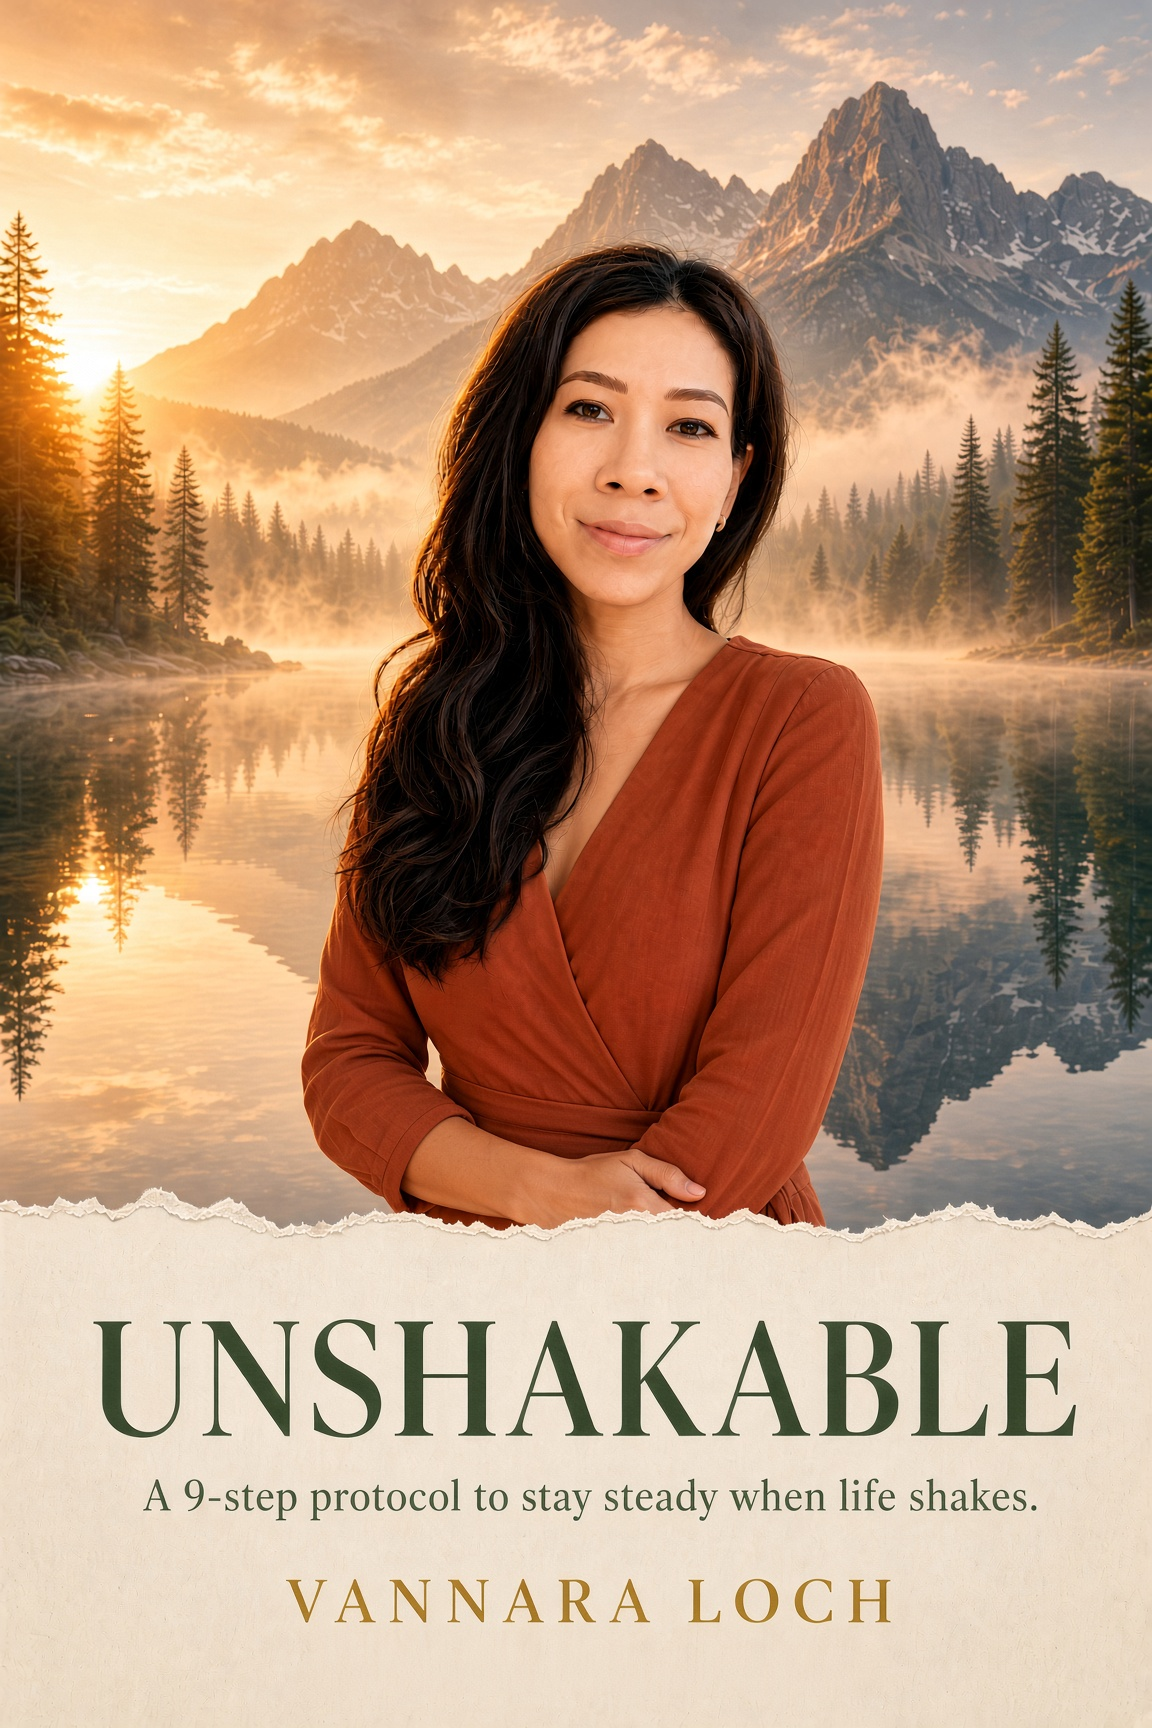
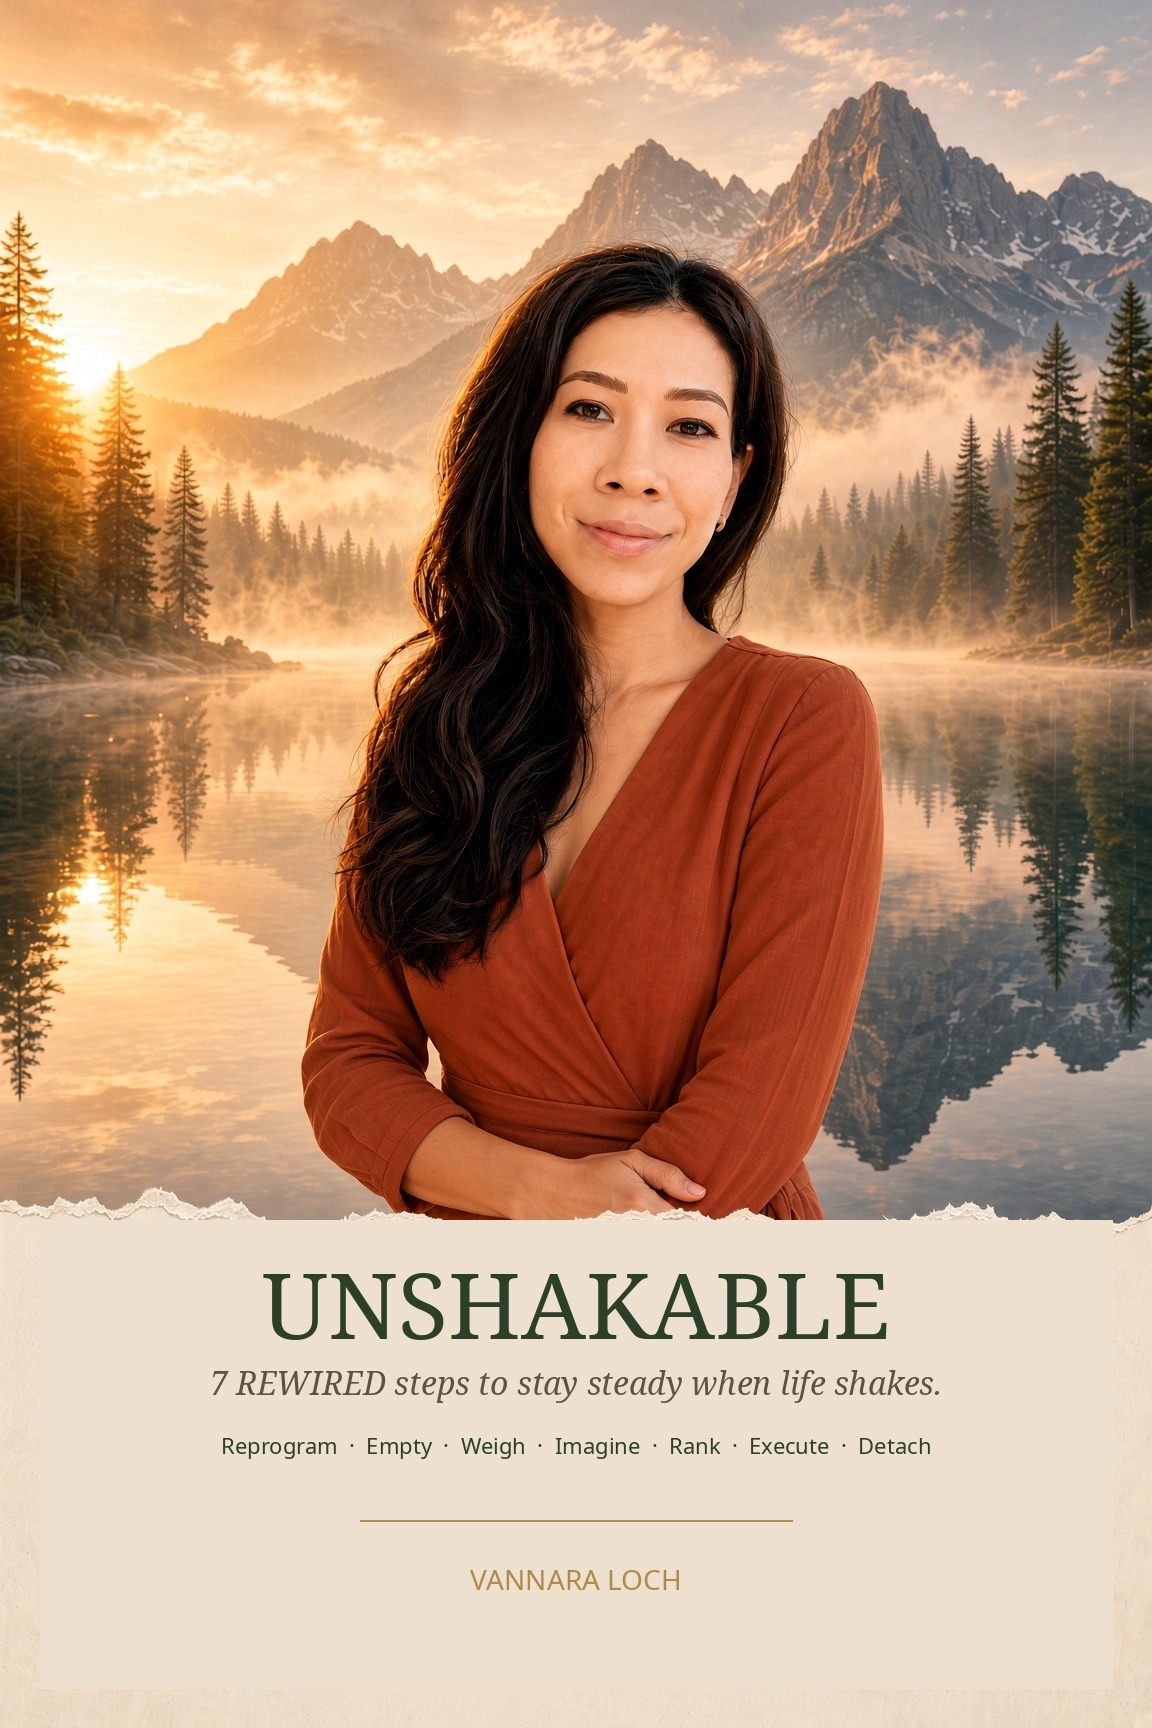
update cover and steps

Changed region(s): [[0.0625, 0.6875, 0.9375, 0.875], [0.25, 0.9062, 0.7812, 0.9375], [0.9375, 0.6875, 0.9688, 0.7188]]

diff --git a/index.html b/index.html
@@ -75,17 +75,15 @@
       <div class="page-inner">
         <p class="kicker">The sequence</p>
         <h2>The Unshakable Mind</h2>
-        <p class="lede">Nine steps. One day. This is the whole sequence, before you use any of it.</p>
+        <p class="lede">Seven steps. One word. One day.</p>
         <ol>
-          <li><strong>00 Prime</strong> — regulate before you plan</li>
-          <li><strong>01 Empty</strong> — clear your head</li>
-          <li><strong>02 Sort</strong> — choose what matters</li>
-          <li><strong>03 Vision</strong> — see your successful day</li>
-          <li><strong>04 Decide</strong> — pre-decide the night before</li>
-          <li><strong>05 Protect</strong> — guard your focus</li>
-          <li><strong>06 Execute</strong> — one thing at a time</li>
-          <li><strong>07 Interrupt</strong> — release what isn't yours</li>
-          <li><strong>08 Close</strong> — reprogram before sleep</li>
+          <li><strong>R — Reprogram:</strong> upgrade your operating system before the world wakes up.</li>
+          <li><strong>E — Empty:</strong> unload everything consuming your time, energy and focus.</li>
+          <li><strong>W — Weigh:</strong> separate the non-negotiable from the negotiable, the focus from the on-the-go.</li>
+          <li><strong>I — Imagine:</strong> picture what success looks like at the end of your day.</li>
+          <li><strong>R — Rank:</strong> rank your top 3 actions that create 80% of the results.</li>
+          <li><strong>E — Execute:</strong> protect your time. Follow through, one thing at a time.</li>
+          <li><strong>D — Detach:</strong> surrender the outcome. Go to bed in peace.</li>
         </ol>
       </div>
     </div>
@@ -93,17 +91,17 @@
     <div class="page">
       <div class="page-inner">
         <p class="kicker">How to enter</p>
-        <h2>You do not do all nine at once.</h2>
+        <h2>You do not do all seven at once.</h2>
         <p class="lede">Notice how you feel. The feeling tells you which step to open.</p>
-        <p>Tense — Prime. Head too full — Empty, then Sort. You don't know what a successful day looks like — Vision, then Decide. Pulled away — Protect, then Execute. Spiraling, or the day still open — Interrupt, then Close.</p>
+        <p>Tense — Reprogram. Head too full — Empty, then Weigh. No clear picture of success — Imagine, then Rank. Pulled away — Execute. Spiraling, or the day still open — Detach.</p>
         <p>One feeling. One step. That is enough for today.</p>
       </div>
     </div>
 
     <div class="page">
       <div class="page-inner diag">
-        <p class="kicker">00 Prime</p>
-        <h2>Regulate before you plan</h2>
+        <p class="kicker">R · Reprogram</p>
+        <h2>Upgrade before the world wakes up</h2>
         <p>Do you wake up and reach for your phone, already stressed before your day begins? What do you normally do?</p>
         <p class="label">What science says:</p>
         <p class="science">When you start the day stressed, your nervous system plans from survival mode, and stress narrows what you can see. Slow breathing activates your calming system and improves heart rate variability, a marker of calm and resilience. You plan from safety, not panic.</p>
@@ -116,8 +114,8 @@
 
     <div class="page">
       <div class="page-inner diag">
-        <p class="kicker">01 Empty</p>
-        <h2>Clear your head</h2>
+        <p class="kicker">E · Empty</p>
+        <h2>Unload what is consuming you</h2>
         <p>Does your head feel so full that nothing else can fit? When you feel overloaded, what do you normally do?</p>
         <p class="label">What science says:</p>
         <p class="science">Your working memory holds only about four things at once (Cowan, 2001). Unfinished tasks keep looping in your mind — the Zeigarnik effect — and that loop drains your energy and focus. Writing down a plan for unfinished tasks stops them from intruding (Masicampo & Baumeister, 2011). When paper holds the list, your brain is free to think.</p>
@@ -130,19 +128,19 @@
 
     <div class="page">
       <div class="page-inner diag">
-        <p class="kicker">02 Sort</p>
-        <h2>Choose what matters</h2>
+        <p class="kicker">W · Weigh</p>
+        <h2>Separate what matters</h2>
         <p>When too many things land on you at once, how do you know what to focus on next? What do you normally do?</p>
         <p class="label">What science says:</p>
-        <p class="science">Research on the urgency effect shows people choose urgent tasks over important ones, even when the important ones pay off more (Zhu et al., 2018). Sorting breaks that bias, so urgency stops choosing for you.</p>
+        <p class="science">Research on the urgency effect shows people choose urgent tasks over important ones, even when the important ones pay off more (Zhu et al., 2018). Weighing breaks that bias, so urgency stops choosing for you.</p>
         <p class="label">The practice:</p>
-        <p>Bring your list from the previous page and split it into non-negotiable and negotiable. Then tag each task as continuous or deadline, and as focus or flexible.</p>
+        <p>Split the list into non-negotiable and negotiable. Then tag each task as continuous or deadline, and as focus or on-the-go.</p>
         <p class="small">Example</p>
         <table>
           <thead><tr><th>Non-negotiable</th><th>Negotiable</th></tr></thead>
           <tbody>
-            <tr><td>Launch page — deadline, focus</td><td>Unread thread — flexible</td></tr>
-            <tr><td>School pickup — continuous</td><td>Groceries — flexible</td></tr>
+            <tr><td>Launch page — deadline, focus</td><td>Unread thread — on-the-go</td></tr>
+            <tr><td>School pickup — continuous</td><td>Groceries — on-the-go</td></tr>
             <tr><td>Sleep — continuous</td><td>Accountant call — can move</td></tr>
           </tbody>
         </table>
@@ -151,8 +149,8 @@
 
     <div class="page">
       <div class="page-inner diag">
-        <p class="kicker">03 Vision</p>
-        <h2>See your successful day</h2>
+        <p class="kicker">I · Imagine</p>
+        <h2>Picture the successful day</h2>
         <p>At the end of the day, how do you know you were successful? How do you know you moved closer to your goal, your dream?</p>
         <p class="label">What science says:</p>
         <p class="science">"I'll do my best" gives your brain no target. Goal-setting research by Locke and Latham, across hundreds of studies, shows that specific, clear goals lead to higher performance than vague ones.</p>
@@ -165,13 +163,13 @@
 
     <div class="page">
       <div class="page-inner diag">
-        <p class="kicker">04 Decide</p>
-        <h2>Pre-decide the night before</h2>
+        <p class="kicker">R · Rank</p>
+        <h2>The three that move the day</h2>
         <p>Are you spending your day reacting to your emotions and to people's complaints? Or are you deciding who you are, what you want, and the action that takes you there?</p>
         <p class="label">What science says:</p>
         <p class="science">When you decide in the moment, your emotions and other people's demands decide for you. Deciding in advance is an implementation intention. A review of 94 studies found it strongly increases follow-through (Gollwitzer & Sheeran, 2006).</p>
         <p class="label">The practice:</p>
-        <p>The night before, fill in your VPI table — Vision, Purpose, Inspired Action — with three actions at most. Tomorrow, you don't decide. You execute.</p>
+        <p>The night before, rank your top 3 actions that create 80% of the results. Fill the VPI table — Vision, Purpose, Inspired Action. Tomorrow, you don't decide. You execute.</p>
         <p class="small">Example</p>
         <p><strong>Vision</strong> — launch page sent; dinner present.</p>
         <p><strong>Purpose</strong> — I build from a steady body.</p>
@@ -188,70 +186,30 @@
 
     <div class="page">
       <div class="page-inner diag">
-        <p class="kicker">05 Protect</p>
-        <h2>Guard your focus</h2>
-        <p>Does your day get eaten by messages, calls, and interruptions? When someone pulls you away, what do you normally do?</p>
+        <p class="kicker">E · Execute</p>
+        <h2>Protect the time. One thing.</h2>
+        <p>Does your day get eaten by messages, calls, and interruptions? Do you jump between five tasks and finish none?</p>
         <p class="label">What science says:</p>
-        <p class="science">It can take around 23 minutes to fully refocus after an interruption (Gloria Mark). Even a phone lying face-down nearby reduces your thinking capacity (Ward et al., 2017). Protected time keeps your full brain power for what matters.</p>
+        <p class="science">It can take around 23 minutes to fully refocus after an interruption (Gloria Mark). Even a phone lying face-down nearby reduces your thinking capacity (Ward et al., 2017). Every time you switch tasks, you lose time and accuracy (Rubinstein, Meyer & Evans, 2001). Part of your attention stays stuck on the last task — attention residue (Sophie Leroy).</p>
         <p class="label">The practice:</p>
-        <p>Block time on your calendar. Put focus tasks in protected blocks and flexible tasks in the gaps. Keep your phone out of the room.</p>
+        <p>Block the time. Put focus tasks in protected blocks and on-the-go tasks in the gaps. Phone out of the room. Then one thing at a time, in a primed state.</p>
         <p class="small">Example</p>
-        <table>
-          <thead><tr><th>Block</th><th>What lives here</th></tr></thead>
-          <tbody>
-            <tr><td>9:00–11:00</td><td>Write the offer. Phone out of the room.</td></tr>
-            <tr><td>11:30</td><td>Send the draft.</td></tr>
-            <tr><td>Gaps</td><td>Thread. Groceries. Accountant, if it fits.</td></tr>
-            <tr><td>Evening</td><td>Dinner present. Close the page.</td></tr>
-          </tbody>
-        </table>
+        <div class="box"><p>From 9 to 11, I write the offer. Phone in another room. Nothing else.</p></div>
       </div>
     </div>
 
     <div class="page">
       <div class="page-inner diag">
-        <p class="kicker">06 Execute</p>
-        <h2>One thing at a time</h2>
-        <p>Do you jump between five tasks and finish none? What do you normally do when you feel scattered?</p>
+        <p class="kicker">D · Detach</p>
+        <h2>Surrender the outcome. Sleep in peace.</h2>
+        <p>Does one worry replay in your head again and again? What is the last thing you think, feel, or watch before you sleep?</p>
         <p class="label">What science says:</p>
-        <p class="science">Every time you switch tasks, you lose time and accuracy (Rubinstein, Meyer & Evans, 2001). Part of your attention also stays stuck on the last task — attention residue (Sophie Leroy). Working on one thing gives you full attention, deeper work, and less exhaustion.</p>
+        <p class="science">Replaying the same worry is strongly linked to stress and anxiety. Putting a feeling into words calms the amygdala (Lieberman et al., 2007). As you relax toward sleep, alpha brain waves increase and your mind becomes more open, so whatever you feed it then goes deeper. Gratitude before sleep is linked to better sleep quality (Wood et al., 2009).</p>
         <p class="label">The practice:</p>
-        <p>One thing at a time, in a primed state. Depth over hurry.</p>
-        <p class="small">Example</p>
-        <div class="box"><p>From 9 to 11, I write the offer. Nothing else.</p></div>
-      </div>
-    </div>
-
-    <div class="page">
-      <div class="page-inner diag">
-        <p class="kicker">07 Interrupt</p>
-        <h2>Release what isn't yours</h2>
-        <p>Does one worry replay in your head again and again? What do you normally do?</p>
-        <p class="label">What science says:</p>
-        <p class="science">Replaying the same worry is strongly linked to stress and anxiety. Putting a feeling into words calms the amygdala, the brain's alarm center (Lieberman et al., 2007). Asking one question turns the loop into either a next step or a release.</p>
-        <p class="label">The practice:</p>
-        <p>Ask yourself, can I control this? Yes — write the next step. No — say "Not mine to carry," breathe, and return to now. Partly — write the part that is yours as an action, and release the rest.</p>
-        <p class="small">Example</p>
-        <div class="box">
-          <p>Worry: they will think the page is not ready.</p>
-          <p>Yes — send the draft by noon.</p>
-          <p>No — their opinion is not mine to carry.</p>
-          <p>Partly — my part is the draft. I release their reaction.</p>
-        </div>
-      </div>
-    </div>
-
-    <div class="page">
-      <div class="page-inner diag">
-        <p class="kicker">08 Close</p>
-        <h2>Reprogram before sleep</h2>
-        <p>What is the last thing you think, feel, or watch before you sleep? Scrolling news, replaying problems, worrying about tomorrow? What do you normally do?</p>
-        <p class="label">What science says:</p>
-        <p class="science">As you relax toward sleep, alpha brain waves increase and your mind becomes more open, so whatever you feed it then goes deeper. Worry before bed delays sleep. Gratitude before sleep is linked to better sleep quality (Wood et al., 2009).</p>
-        <p class="label">The practice:</p>
-        <p>Avoid thoughts, feelings, or words that affect you negatively. Read your power statement out loud. Feel it as if it is already true, with elevated feeling. Fall asleep inside that feeling.</p>
+        <p>Day: ask, can I control this? Yes — next step. No — not mine to carry. Partly — only your part. Night: release whether the vision came or not. Read your power statement out loud. Feel it as already true. Fall asleep inside that feeling.</p>
         <p class="small">Example</p>
         <div class="box"><p>I am grateful. I am unshakable. Tomorrow already supports my dream.</p></div>
+        <p class="footer-line">Tonight you detach. Tomorrow you reprogram. The loop is the method.</p>
       </div>
     </div>
 
